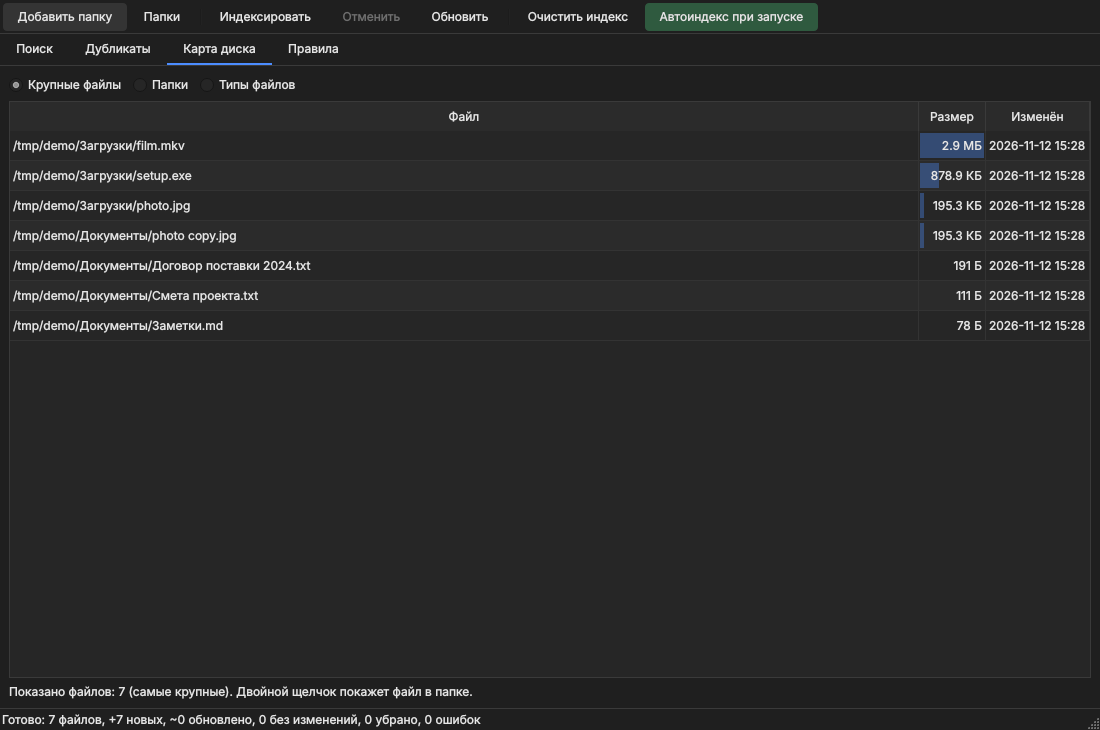
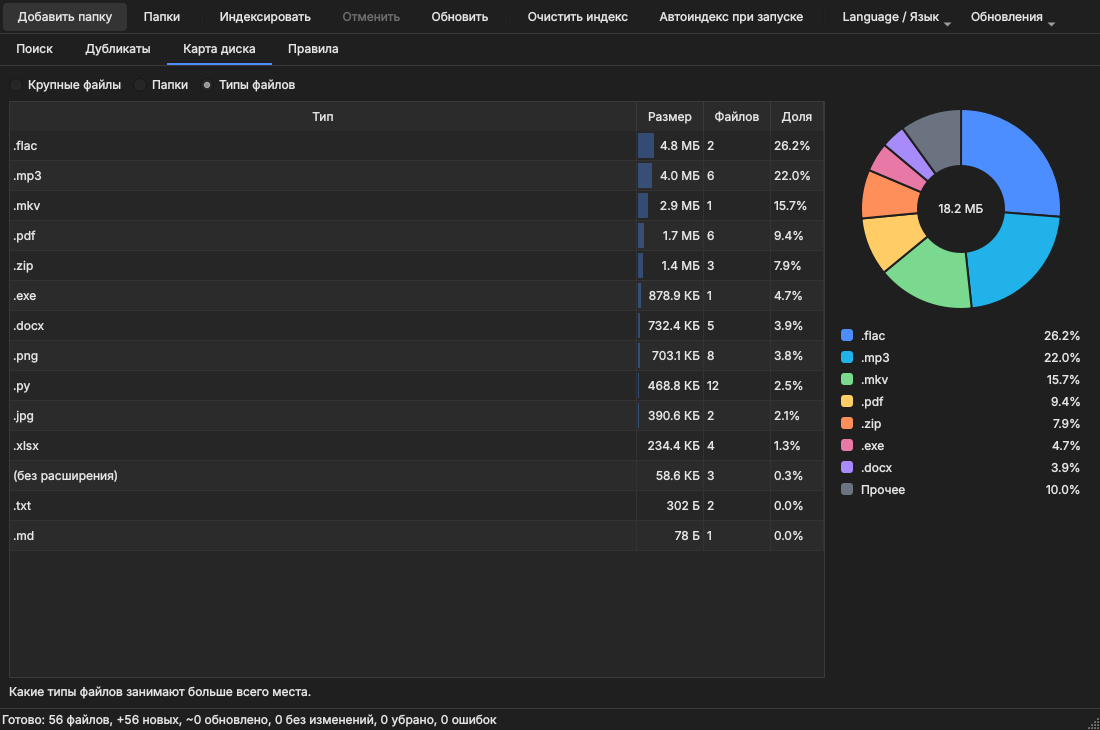
Диаграммы на карте диска, версия 0.3.1

diff --git a/filepilot/ui/charts.py b/filepilot/ui/charts.py
@@ -1,0 +1,103 @@
+"""Кольцевая диаграмма без сторонних библиотек (только QPainter)."""
+from __future__ import annotations
+
+import math
+
+from PySide6.QtCore import QPointF, QRectF, Qt
+from PySide6.QtGui import QColor, QFontMetrics, QPainter, QPen
+from PySide6.QtWidgets import QToolTip, QWidget
+
+from ..config import human_size
+from ..i18n import tr
+
+# Палитра различима на тёмном фоне; серый — «прочее»
+COLORS = ["#4c8dff", "#20b2e8", "#7bd88f", "#ffcc66", "#ff8f5a", "#e879a6", "#a78bfa", "#5eead4"]
+OTHER_COLOR = "#6b7280"
+ROW_H = 22
+
+
+class DonutChart(QWidget):
+    """Данные: список (подпись, размер). Подпись «прочее» передаётся отдельно, её рисуем серым."""
+
+    def __init__(self, parent=None):
+        super().__init__(parent)
+        self.items: list[tuple[str, int, bool]] = []  # (подпись, размер, это «прочее»)
+        self.setMouseTracking(True)
+        self.setMinimumWidth(260)
+
+    def set_data(self, top: list[tuple[str, int]], other: int = 0) -> None:
+        self.items = [(n, v, False) for n, v in top] + ([(tr("Прочее"), other, True)] if other > 0 else [])
+        self.setMinimumHeight(220 + ROW_H * len(self.items))
+        self.update()
+
+    def total(self) -> int:
+        return sum(v for _, v, _ in self.items)
+
+    def _color(self, i: int) -> QColor:
+        return QColor(OTHER_COLOR if self.items[i][2] else COLORS[i % len(COLORS)])
+
+    def _ring(self) -> QRectF:
+        side = max(min(self.width() - 24, 200), 60)
+        return QRectF((self.width() - side) / 2, 8, side, side)
+
+    def paintEvent(self, _e) -> None:
+        p = QPainter(self)
+        p.setRenderHint(QPainter.RenderHint.Antialiasing)
+        total = self.total()
+        ring = self._ring()
+        bg = self.palette().window().color()
+        if not total:
+            p.setPen(self.palette().placeholderText().color())
+            p.drawText(self.rect(), Qt.AlignmentFlag.AlignCenter | Qt.TextFlag.TextWordWrap, tr("Нет данных для диаграммы"))
+            return
+        angle = 90 * 16
+        p.setPen(QPen(bg, 2))
+        for i, (_, v, _o) in enumerate(self.items):
+            span = -round(v / total * 360 * 16)
+            p.setBrush(self._color(i))
+            p.drawPie(ring, angle, span)
+            angle += span
+        hole = ring.adjusted(ring.width() * 0.28, ring.height() * 0.28, -ring.width() * 0.28, -ring.height() * 0.28)
+        p.setPen(Qt.PenStyle.NoPen)
+        p.setBrush(bg)
+        p.drawEllipse(hole)
+        p.setPen(self.palette().text().color())
+        p.drawText(hole, Qt.AlignmentFlag.AlignCenter, human_size(total))
+        fm = QFontMetrics(self.font())
+        y = ring.bottom() + 16
+        for i, (name, v, _o) in enumerate(self.items):
+            p.setPen(Qt.PenStyle.NoPen)
+            p.setBrush(self._color(i))
+            p.drawRoundedRect(QRectF(10, y + 4, 12, 12), 3, 3)
+            pct = f"{v / total * 100:.1f}%"
+            pw = fm.horizontalAdvance(pct)
+            p.setPen(self.palette().text().color())
+            p.drawText(QPointF(self.width() - 10 - pw, y + 15), pct)
+            label = fm.elidedText(name, Qt.TextElideMode.ElideMiddle, max(self.width() - 40 - pw - 10, 30))
+            p.drawText(QPointF(30, y + 15), label)
+            y += ROW_H
+
+    def slice_at(self, pos) -> int | None:
+        total, ring = self.total(), self._ring()
+        if not total:
+            return None
+        c = ring.center()
+        dx, dy = pos.x() - c.x(), pos.y() - c.y()
+        dist = math.hypot(dx, dy)
+        if dist > ring.width() / 2 or dist < ring.width() * 0.22:
+            return None
+        ang = math.degrees(math.atan2(dx, -dy)) % 360  # от верха по часовой
+        acc = 0.0
+        for i, (_, v, _o) in enumerate(self.items):
+            acc += v / total * 360
+            if ang < acc:
+                return i
+        return len(self.items) - 1
+
+    def mouseMoveEvent(self, e) -> None:
+        i = self.slice_at(e.position())
+        if i is None:
+            QToolTip.hideText()
+            return
+        name, v, _o = self.items[i]
+        QToolTip.showText(e.globalPosition().toPoint(), f"{name}\n{human_size(v)} ({v / self.total() * 100:.1f}%)", self)

diff --git a/filepilot/ui/diskmap_tab.py b/filepilot/ui/diskmap_tab.py
@@ -11,6 +11,7 @@ from PySide6.QtWidgets import (
 from ..i18n import tr
 from .. import diskmap
 from ..config import format_time, human_size
+from .charts import DonutChart
 from .theme import ACCENT, reveal_in_folder
 
 
@@ -29,7 +30,7 @@ class BarDelegate(QStyledItemDelegate):
 
 def _loc(name: str) -> str:
     """Служебные подписи из diskmap.py показываем на выбранном языке."""
-    return name.replace(tr("(файлы в корне)"), tr(tr("(файлы в корне)"))).replace(tr("(без расширения)"), tr(tr("(без расширения)")))
+    return name.replace(diskmap.ROOT_LABEL, tr(diskmap.ROOT_LABEL)).replace(diskmap.NO_EXT_LABEL, tr(diskmap.NO_EXT_LABEL))
 
 
 class DiskMapTab(QWidget):
@@ -54,7 +55,11 @@ class DiskMapTab(QWidget):
         self.table.setAlternatingRowColors(True)
         self.table.setItemDelegateForColumn(1, BarDelegate(self.table))
         self.table.doubleClicked.connect(self._reveal)
-        lay.addWidget(self.table, 1)
+        self.chart = DonutChart()
+        body = QHBoxLayout()
+        body.addWidget(self.table, 1)
+        body.addWidget(self.chart)
+        lay.addLayout(body, 1)
         self.info = QLabel("")
         lay.addWidget(self.info)
         self.modes["files"].setChecked(True)
@@ -84,15 +89,23 @@ class DiskMapTab(QWidget):
             data = diskmap.top_files(200)
             top = data[0]["size"] if data else 1
             self._fill([tr("Файл"), tr("Размер"), tr("Изменён")], [[(d["path"], None), (human_size(d["size"]), d["size"] / (top or 1)), (format_time(d["mtime"]), None)] for d in data])
+            self.chart.setVisible(False)
             self.info.setText(tr('Показано файлов: {0} (самые крупные). Двойной щелчок покажет файл в папке.').format(len(data)))
         elif self.modes["folders"].isChecked():
             data = diskmap.by_folder(self.settings.folders)
             self._fill([tr("Папка"), tr("Размер"), tr("Файлов"), tr("Доля")], [[(_loc(d["folder"]), None), (human_size(d["size"]), d["share"]), (str(d["files"]), None), (f"{d['share'] * 100:.1f}%", None)] for d in data])
+            self._chart([(_loc(d["folder"]), d["size"]) for d in data])
             self.info.setText(tr("Размер по папкам первого уровня внутри добавленных папок.") if data else tr("Добавьте папки и проиндексируйте их."))
         else:
             data = diskmap.by_type()
             self._fill([tr("Тип"), tr("Размер"), tr("Файлов"), tr("Доля")], [[(_loc(d["ext"]), None), (human_size(d["size"]), d["share"]), (str(d["files"]), None), (f"{d['share'] * 100:.1f}%", None)] for d in data])
+            self._chart([(_loc(d["ext"]), d["size"]) for d in data])
             self.info.setText(tr("Какие типы файлов занимают больше всего места."))
+
+    def _chart(self, items) -> None:
+        top, other = diskmap.group_top(items, 7)
+        self.chart.set_data(top, other)
+        self.chart.setVisible(True)
 
     def _reveal(self, *_):
         if not self.modes["files"].isChecked():

diff --git a/filepilot/diskmap.py b/filepilot/diskmap.py
@@ -6,6 +6,10 @@ from collections import defaultdict
 
 from .db import get_db
 
+# Служебные подписи (данные хранятся по-русски, интерфейс переводит их при показе)
+ROOT_LABEL = "(файлы в корне)"
+NO_EXT_LABEL = "(без расширения)"
+
 
 def top_files(limit: int = 200, min_size: int = 0) -> list[dict]:
     cur = get_db().execute(
@@ -24,8 +28,8 @@ def by_folder(roots: list[str], limit: int = 100) -> list[dict]:
         prefix = root.rstrip("\\/") + os.sep
         for row in conn.execute("SELECT path, size FROM files WHERE substr(path, 1, ?) = ?", (len(prefix), prefix)):
             rest = row["path"][len(prefix):]
-            first = rest.split(os.sep, 1)[0] if os.sep in rest else "(файлы в корне)"
-            key = os.path.join(root, first) if first != "(файлы в корне)" else root + " (файлы в корне)"
+            first = rest.split(os.sep, 1)[0] if os.sep in rest else ROOT_LABEL
+            key = os.path.join(root, first) if first != ROOT_LABEL else root + " " + ROOT_LABEL
             totals[key] += row["size"] or 0
             counts[key] += 1
     grand = sum(totals.values()) or 1
@@ -36,8 +40,14 @@ def by_folder(roots: list[str], limit: int = 100) -> list[dict]:
 
 def by_type(limit: int = 30) -> list[dict]:
     rows = get_db().execute(
-        "SELECT COALESCE(NULLIF(ext, ''), '(без расширения)') AS ext, COUNT(*) AS files, COALESCE(SUM(size), 0) AS size "
-        "FROM files GROUP BY 1 ORDER BY size DESC LIMIT ?", (limit,)
+        "SELECT COALESCE(NULLIF(ext, ''), ?) AS ext, COUNT(*) AS files, COALESCE(SUM(size), 0) AS size "
+        "FROM files GROUP BY 1 ORDER BY size DESC LIMIT ?", (NO_EXT_LABEL, limit)
     ).fetchall()
     total = sum(r["size"] for r in rows) or 1
     return [{"ext": r["ext"], "files": r["files"], "size": r["size"], "share": r["size"] / total} for r in rows]
+
+
+def group_top(items: list[tuple[str, int]], top: int = 7) -> tuple[list[tuple[str, int]], int]:
+    """Оставляет `top` самых крупных, остальное складывает в «прочее». Возвращает (крупные, размер прочего)."""
+    ordered = sorted((i for i in items if i[1] > 0), key=lambda i: i[1], reverse=True)
+    return ordered[:top], sum(v for _, v in ordered[top:])

diff --git a/tests/test_ui.py b/tests/test_ui.py
@@ -82,3 +82,23 @@ def test_update_flow_in_window(app, monkeypatch):
     assert wait_until(lambda: w._update_task is None)
     assert "последняя" in w.status.text()
     w.close()
+
+
+def test_donut_chart_geometry_and_english_labels(app, tmp_path):
+    from PySide6.QtCore import QPointF
+    from filepilot import i18n
+    from filepilot.ui.charts import DonutChart
+    from filepilot.ui.diskmap_tab import _loc
+    ch = DonutChart()
+    ch.resize(300, 500)
+    ch.set_data([("a", 75), ("b", 25)], 0)
+    c = ch._ring().center()
+    r = ch._ring().width() / 2 * 0.75
+    assert ch.slice_at(QPointF(c.x() + r * 0.5, c.y() - r * 0.5)) == 0   # сверху справа — первый сектор (75 %)
+    assert ch.slice_at(QPointF(c.x() - r * 0.5, c.y() - r * 0.5)) == 1   # сверху слева — последний
+    assert ch.slice_at(QPointF(c.x(), c.y())) is None                    # дырка в центре
+    ch.grab()  # рисование не падает
+    ch.set_data([], 0)
+    ch.grab()
+    i18n.set_language("en")
+    assert _loc("(без расширения)") == "(no extension)"

diff --git a/filepilot/extractors.py b/filepilot/extractors.py
@@ -1,6 +1,7 @@
 """Извлечение текста из файлов. Docx/xlsx/pptx/odt читаются напрямую из zip: без сторонних библиотек."""
 from __future__ import annotations
 
+import logging
 import re
 import zipfile
 from pathlib import Path
@@ -62,6 +63,7 @@ def read_text_file(path: Path) -> str:
 
 def _read_pdf(path: Path) -> str:
     from pypdf import PdfReader
+    logging.getLogger("pypdf").setLevel(logging.CRITICAL)  # битые PDF не сыплют предупреждениями
 
     reader = PdfReader(str(path))
     if reader.is_encrypted:

diff --git a/tests/test_core.py b/tests/test_core.py
@@ -204,3 +204,9 @@ def test_saved_searches_roundtrip():
     assert [e["query"] for e in s2.saved_searches] == ["y", "z"]
     s2.delete_search("а")
     assert [e["name"] for e in s2.saved_searches] == ["б"]
+
+
+def test_group_top():
+    top, other = diskmap.group_top([("a", 50), ("b", 30), ("c", 10), ("d", 6), ("e", 4), ("z", 0)], top=3)
+    assert top == [("a", 50), ("b", 30), ("c", 10)] and other == 10
+    assert diskmap.group_top([], 3) == ([], 0)

diff --git a/filepilot/i18n_en.py b/filepilot/i18n_en.py
@@ -169,4 +169,6 @@ EN = {
     "У вас последняя версия ({0}).": "You have the latest version ({0}).",
     "Доступна версия {0}.": "Version {0} is available.",
     "Не удалось проверить обновления: {0}": "Could not check for updates: {0}",
+    "Прочее": "Other",
+    "Нет данных для диаграммы": "No data for the chart",
 }

diff --git a/filepilot/__init__.py b/filepilot/__init__.py
@@ -1,3 +1,3 @@
 """FilePilot: локальный поиск по содержимому файлов, дубликаты, карта диска и правила сортировки."""
 
-__version__ = "0.3.0"
+__version__ = "0.3.1"

diff --git a/README.md b/README.md
@@ -9,13 +9,13 @@
 
 Скачайте на странице [Releases](../../releases):
 
-- `FilePilotSetup-0.3.0.exe` — установщик (обновляет версию 0.1 на месте);
+- `FilePilotSetup-0.3.1.exe` — установщик (обновляет версию 0.1 на месте);
 - `FilePilot-Portable.zip` — переносная версия: распакуйте и запустите `FilePilot.exe`. Данные лежат в папке `FilePilotData` рядом с программой.
 
 Контрольные суммы SHA-256 лежат в `SHA256SUMS.txt` в том же релизе. Проверка в PowerShell:
 
 ```
-Get-FileHash .\FilePilotSetup-0.3.0.exe -Algorithm SHA256
+Get-FileHash .\FilePilotSetup-0.3.1.exe -Algorithm SHA256
 ```
 
 ## Обновления
@@ -39,7 +39,7 @@ python -m filepilot --help
 
 - **Поиск** по содержимому (txt, код, pdf, docx, xlsx, pptx, odt и др.) с фильтрами по расширению, размеру и возрасту файлов, предпросмотром с подсветкой, сохранёнными поисками и экспортом в CSV.
 - **Дубликаты**: сравнение по содержимому, удаление только в корзину, в каждой группе остаётся копия.
-- **Карта диска**: крупные файлы, папки и типы файлов.
+- **Карта диска**: крупные файлы, папки и типы файлов, с кольцевой диаграммой.
 - **Правила**: перенос, архивация в zip или отправка в корзину с пробным запуском. Окончательного удаления нет.
 - **Русский и английский интерфейс**: язык выбирается по системе или в меню «Language / Язык».
 - **Автоиндекс при запуске**, очистка индекса, отмена индексации.

diff --git a/CHANGELOG.md b/CHANGELOG.md
@@ -1,5 +1,10 @@
 # История изменений
 
+## 0.3.1
+- Карта диска: кольцевая диаграмма по типам файлов и по папкам (крупные сектора, «Прочее», подсказка при наведении).
+- Исправлено: подписи «(файлы в корне)» и «(без расширения)» не переводились на английский.
+- Битые PDF больше не сыплют предупреждения в консоль.
+
 ## 0.3.0
 - Новый установщик: окно с картинкой и настоящей иконкой, русский и английский язык по системе, чистая замена файлов при обновлении, при удалении спрашивает, стирать ли индекс и настройки.
 - Обновления: программа раз в сутки спрашивает GitHub о новой версии (можно отключить в меню «Обновления»), показывает «Что нового», скачивает установщик, сверяет SHA-256 с `SHA256SUMS.txt` и ставит поверх. Портативная версия только открывает страницу релиза.

diff --git a/SECURITY.md b/SECURITY.md
@@ -5,5 +5,5 @@
 Скачивайте программу только со страницы **Releases** этого репозитория и сверяйте SHA-256 из `SHA256SUMS.txt`:
 
 ```
-Get-FileHash .\FilePilotSetup-0.3.0.exe -Algorithm SHA256
+Get-FileHash .\FilePilotSetup-0.3.1.exe -Algorithm SHA256
 ```
